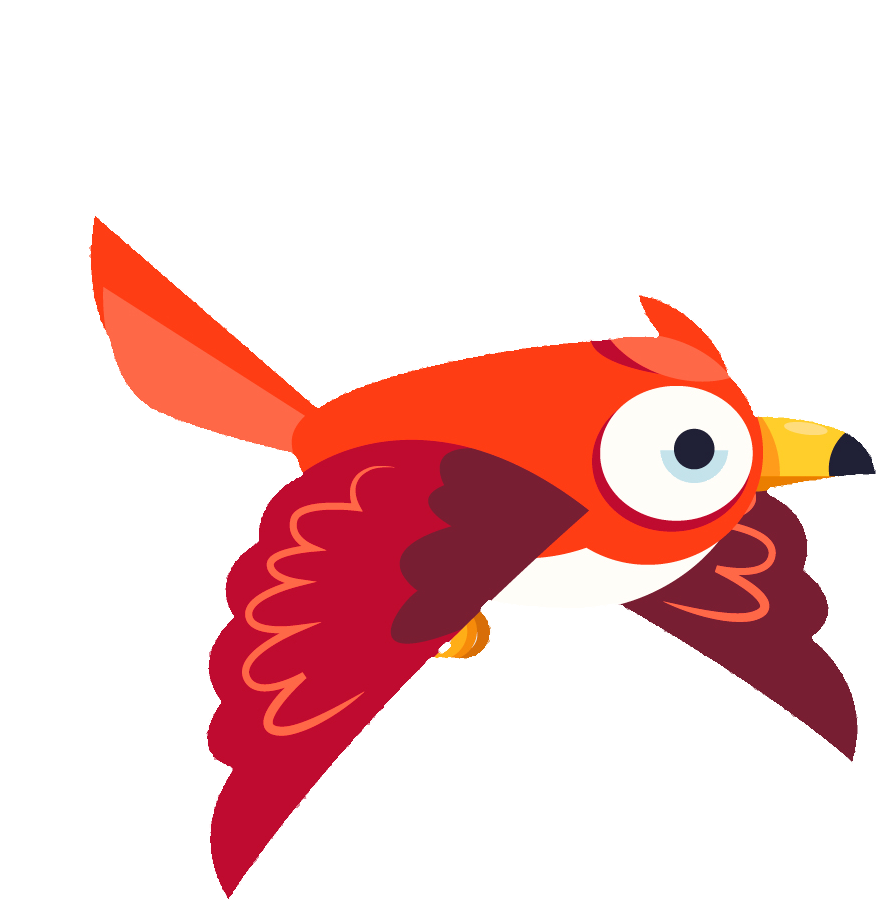
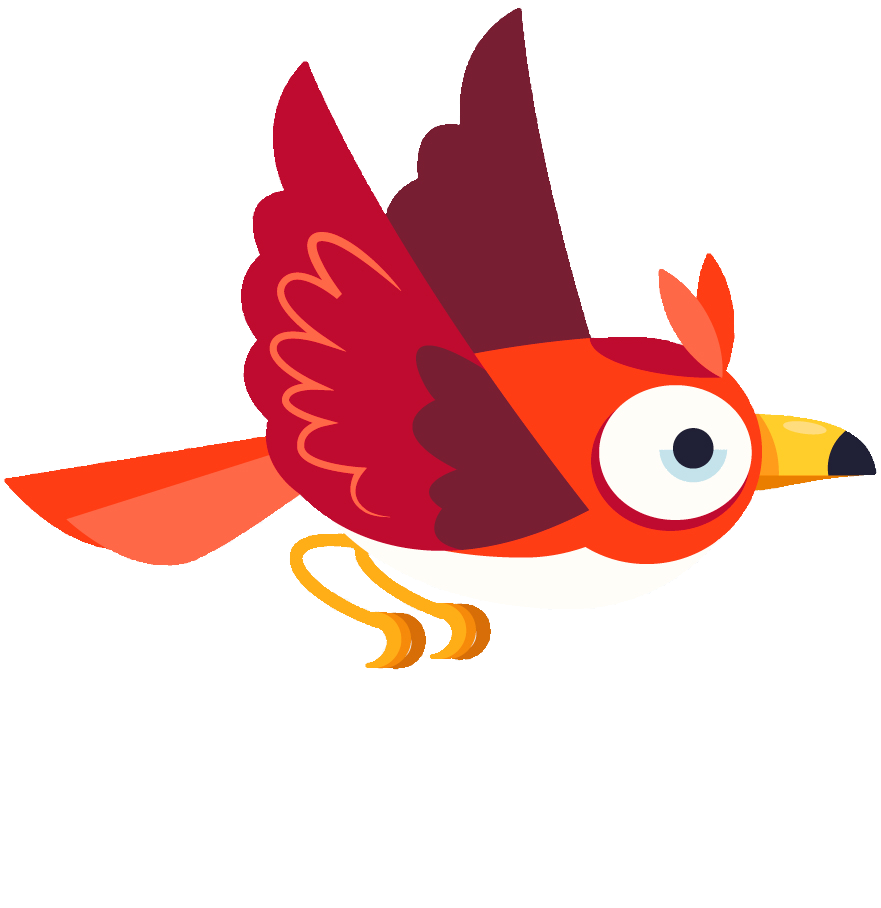
siam

diff --git a/index.js b/index.js
@@ -11,8 +11,10 @@ window.addEventListener('resize', adjustBoard);
 
 // bird
 const BIRD = {};
-const birdImage = new Image(); 
-birdImage.src = './assets/images/birdUp.png';
+const birdUpImage = new Image(); 
+const birdDownImage = new Image(); 
+birdUpImage.src = './assets/images/birdUp.png';
+birdDownImage.src = './assets/images/birdDown.png';
 
 
 // pipes
@@ -85,7 +87,7 @@ function adjustBoard() {
 
 
 window.addEventListener('DOMContentLoaded', () => {
-	context.drawImage(birdImage, BIRD.x, BIRD.y, BIRD.width, BIRD.height); // draw the bird 
+	context.drawImage(birdDownImage, BIRD.x, BIRD.y, BIRD.width, BIRD.height); // draw the bird 
 	context.drawImage(groundImage, GROUND.x, GROUND.y, GROUND.width, GROUND.height); // draw the ground
 
 	// make the bird jump
@@ -114,7 +116,7 @@ function updateFrames() {
 	setBirdBoundary();
 
 	//draw the bird
-	context.drawImage(birdImage, BIRD.x, BIRD.y, BIRD.width, BIRD.height);
+	context.drawImage(birdDownImage, BIRD.x, BIRD.y, BIRD.width, BIRD.height);
 
 	// draw the new pipes from the pipe array
 	for (let pipe of pipeArray) {
